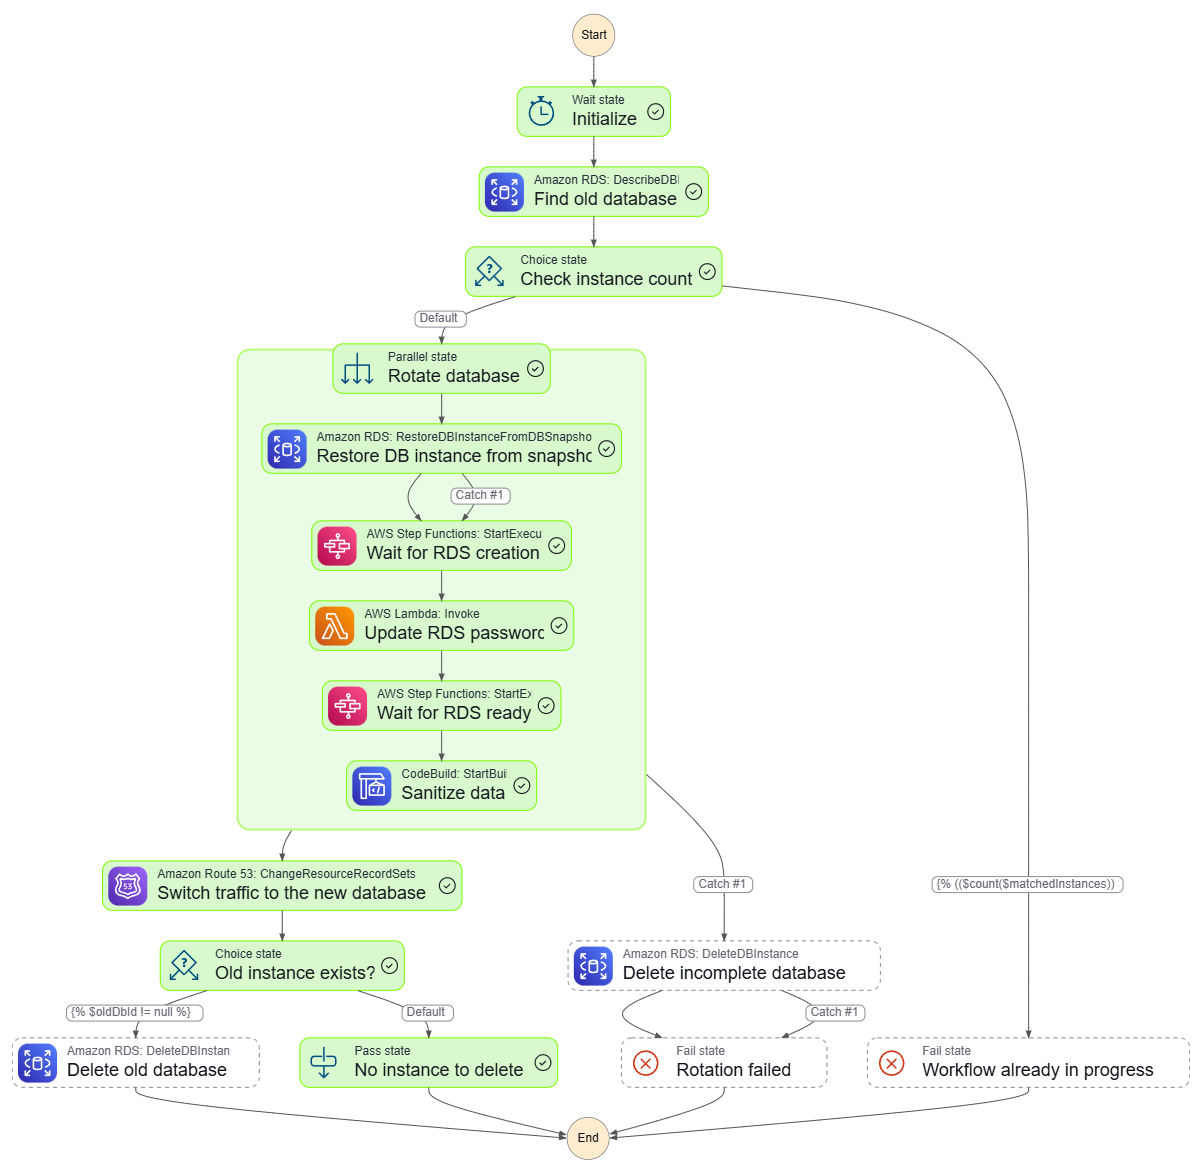
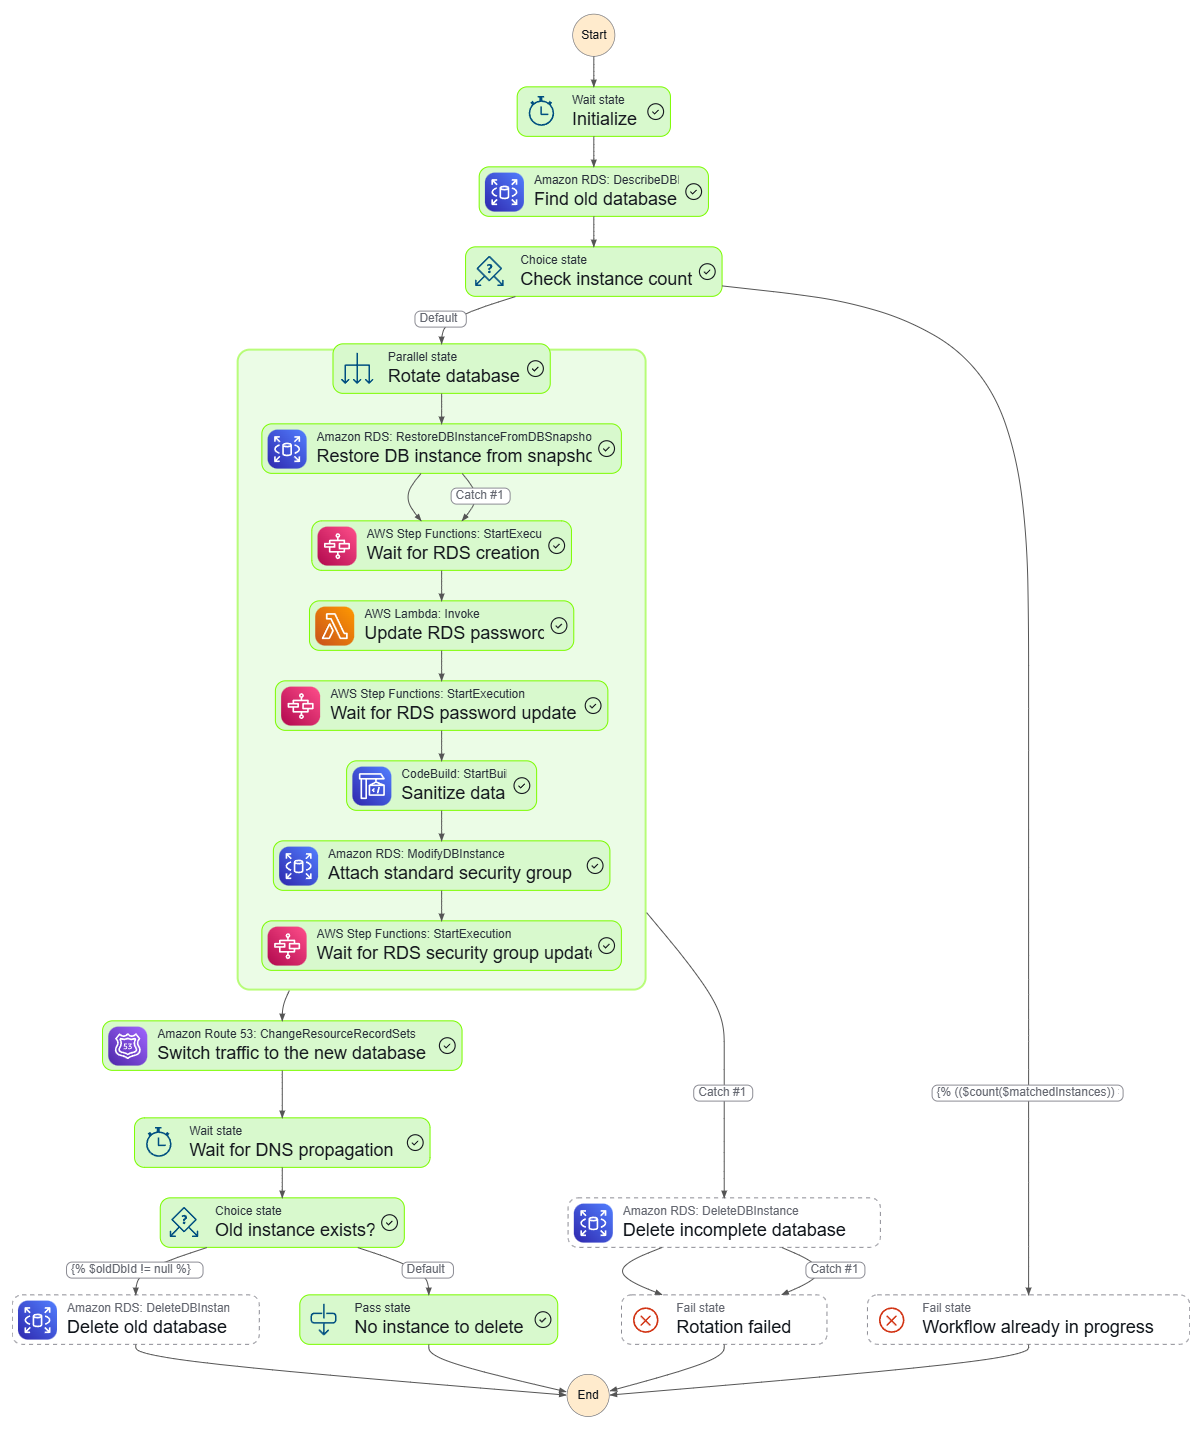
Update documentation

Changed region(s): [[0.0, 0.0, 0.9542, 1.0], [0.7696, 0.7353, 0.9235, 0.766], [0.5849, 0.7047, 0.6156, 0.766]]

diff --git a/README.md b/README.md
@@ -15,12 +15,12 @@ RDS rotation is a process of replacing a database with a new one from a snapshot
 
 ### 📂 Key directory structure
 
-- `infrastructure/sandbox`: Contains the Terraform project for deploying and interacting with the sandbox environment.
-  - `functions`: Lambda functions used in the rotation workflow.
-  - `sql`: SQL scripts executed in the CodeBuild pipeline to sanitize the database.
-  - `statemachine`: Contains the Step Functions state machine definitions for the rotation workflow.
-- `infrastructure/setup`: Contains the Terraform project for creating the RDS snapshot.
-  - `scripts`: Contains scripts used in the setup project, such as waiting for the bastion EC2 instance to be ready and seeding the database.
+- `infrastructure/sandbox/`: Contains the Terraform project for deploying and interacting with the sandbox environment.
+  - `functions/`: Lambda functions used in the rotation workflow.
+  - `sql/`: SQL scripts executed in the CodeBuild pipeline to sanitize the database.
+  - `statemachine/`: Contains the Step Functions state machine definitions for the rotation workflow.
+- `infrastructure/setup/`: Contains the Terraform project for creating the RDS snapshot.
+  - `scripts/`: Contains scripts used in the setup project, such as waiting for the bastion EC2 instance to be ready and seeding the database.
 - `scripts/`: Contains general-purpose scripts used in the project, such as connecting to the database via Session Manager.
 
 ## 🏗 Architecture
@@ -56,6 +56,8 @@ The main workflow consists of various AWS services such as Step Functions, Lambd
 - Other (VPC, CloudWatch, S3, IAM, etc.)
 
     Foundational services that support the overall rotation workflow, such as IAM permissions, networking, execution logs, and so on.
+
+In addition, for security reasons, the RDS instance is restored with an isolation security group. The isolation SG is only accessible from the CodeBuild environment, preventing exposure of sensitive data in the middle of the rotation process.
 
 ## 💻 Getting started
 
